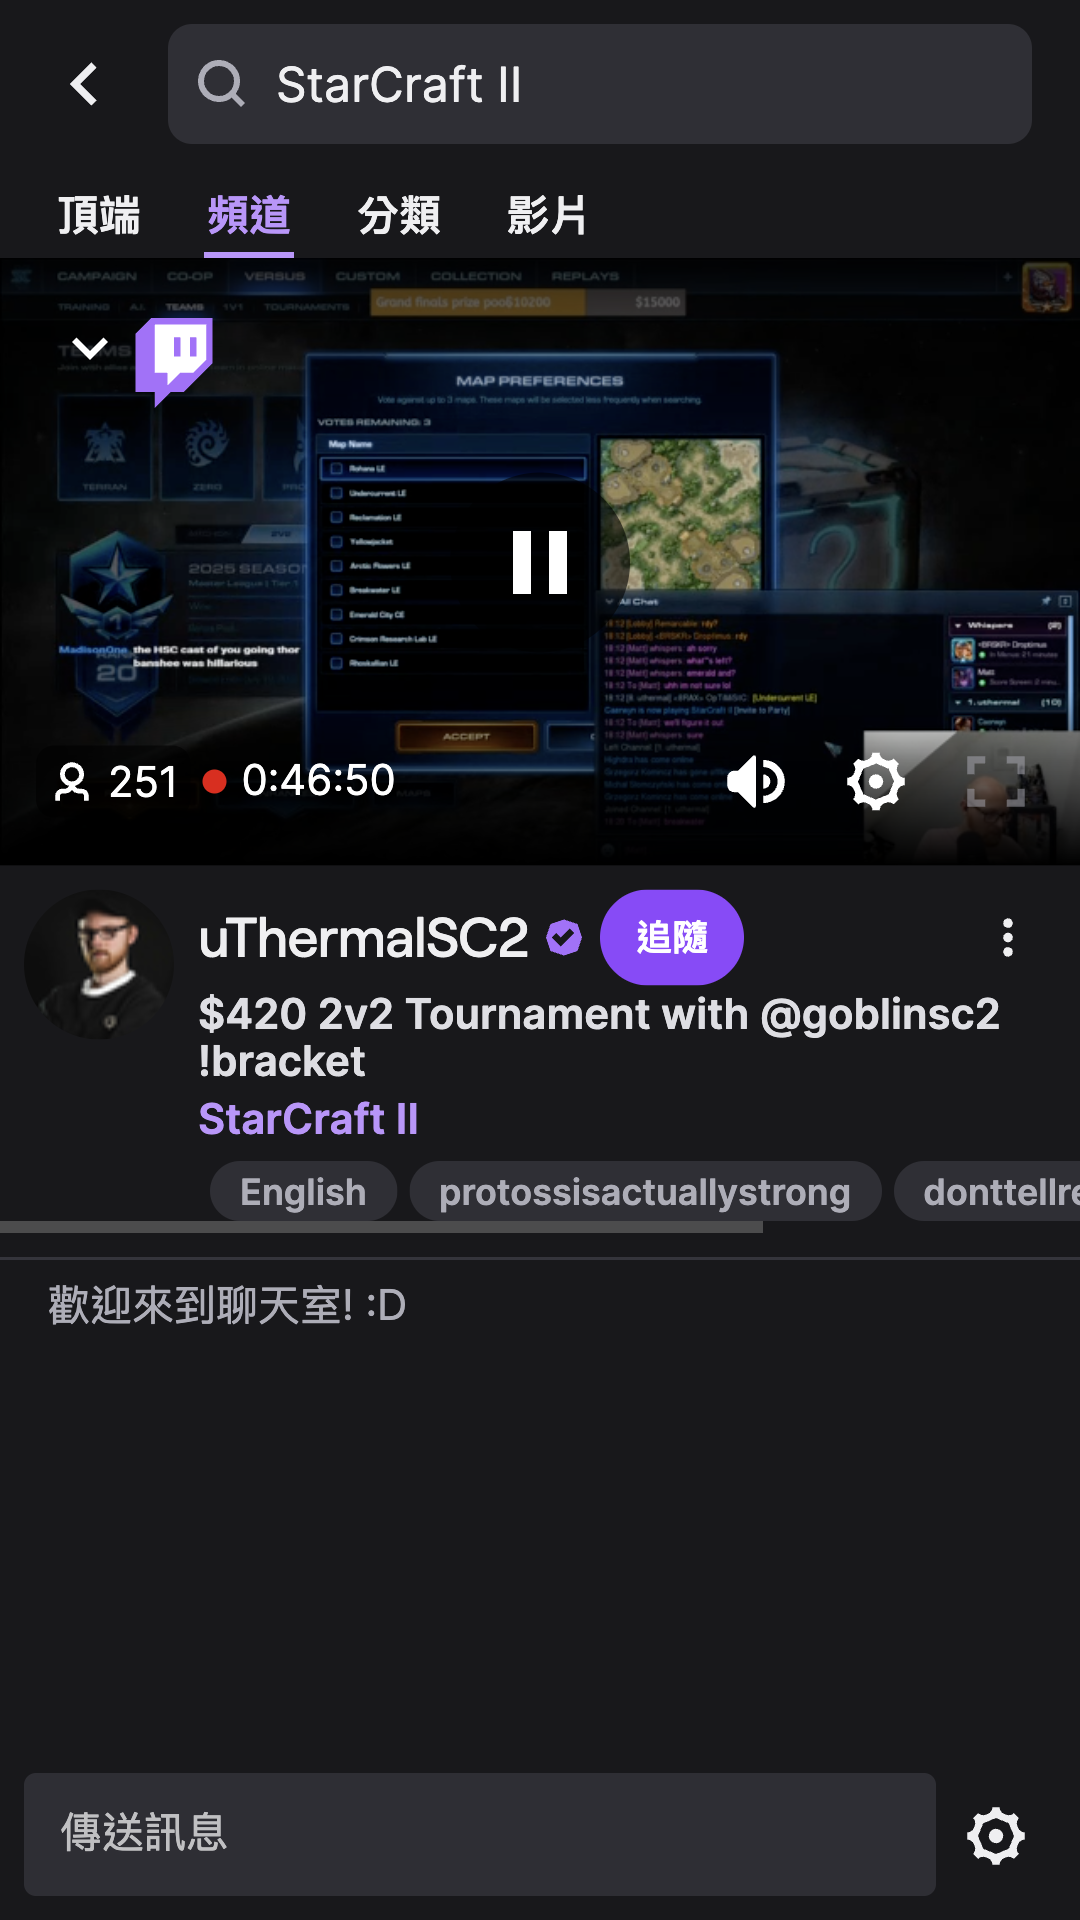
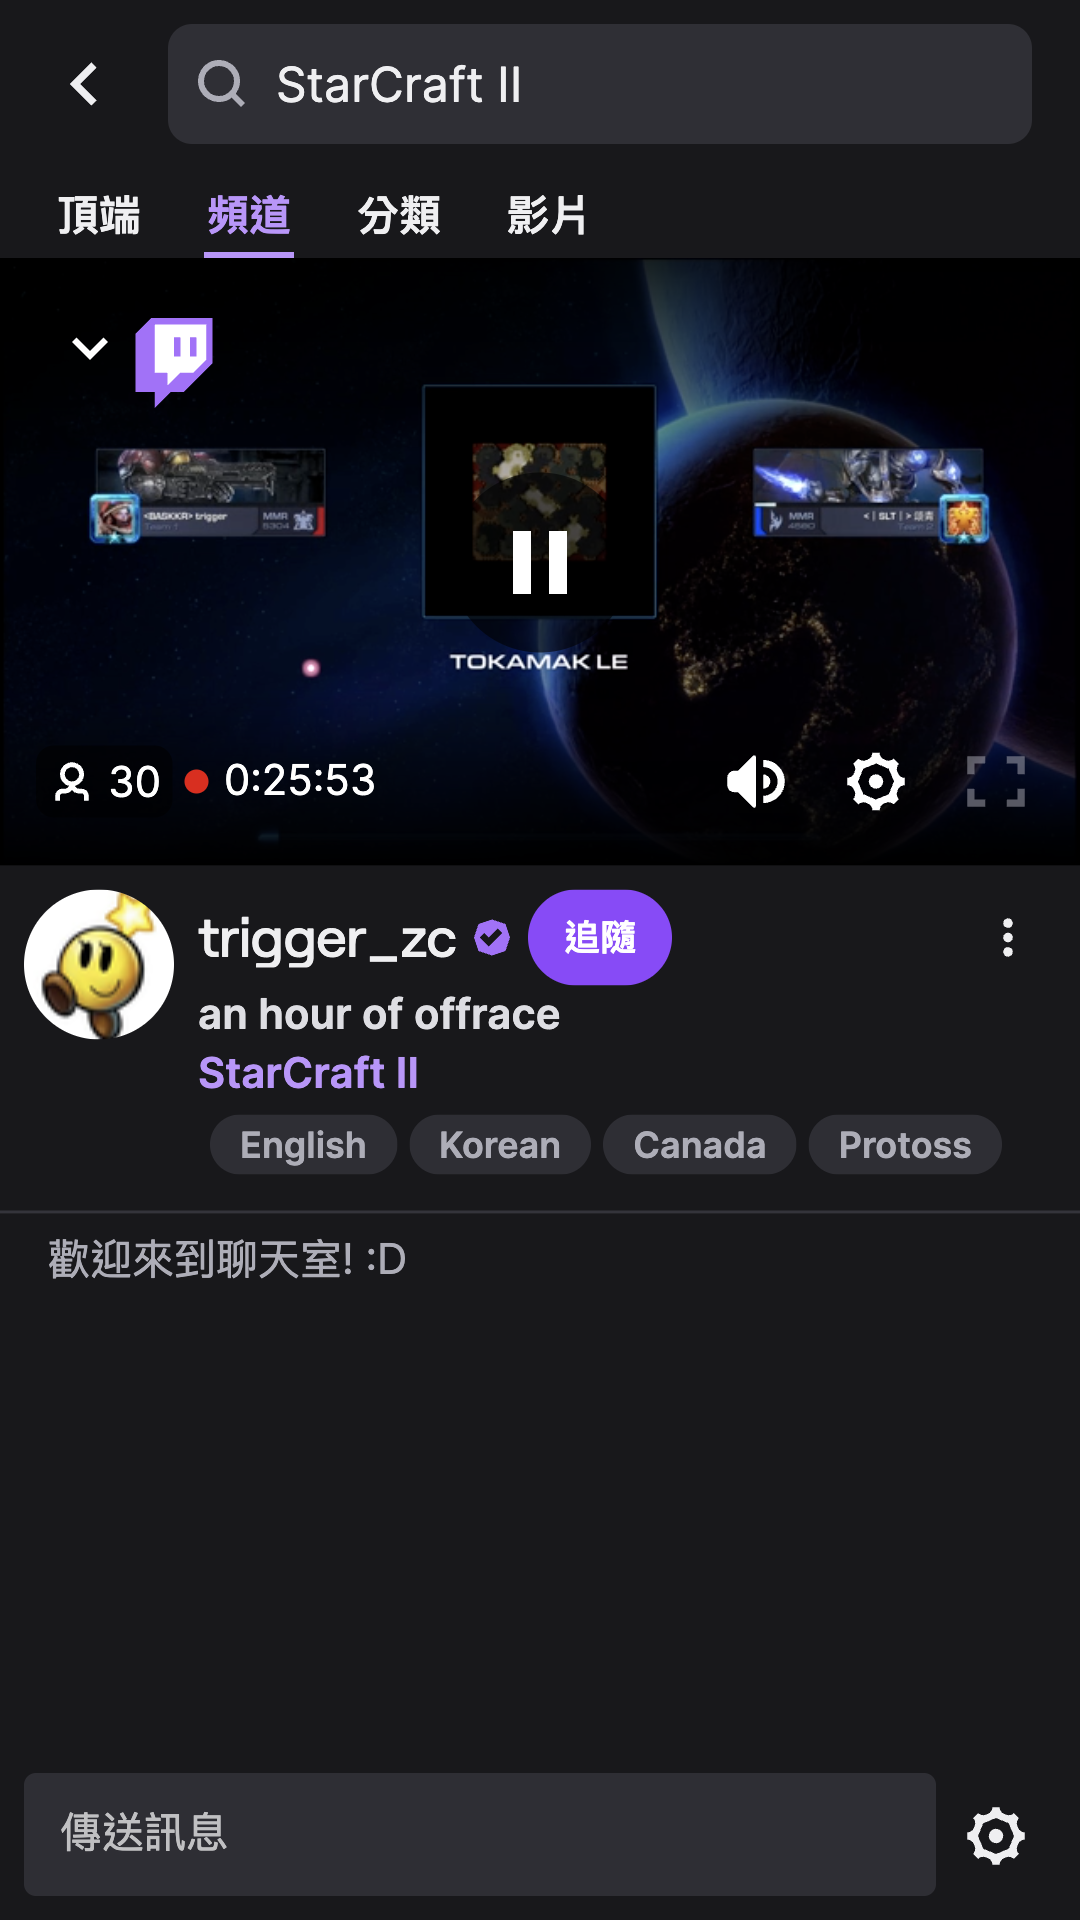
update new test video

diff --git a/tests/test_twitch_starcraft.py b/tests/test_twitch_starcraft.py
@@ -10,7 +10,6 @@ import utils.util as util
 config = util.load_config('config.yaml')
 TWITCH_URL = config['twitch']['url']
 SEARCH_TERM = config['twitch']['search_term']
-SCREENSHOT_DIR = config['twitch']['screenshot_dir']
 SCREENSHOT_FILENAME = config['twitch']['screenshot_filename']
 
 def test_twitch_stream_screenshot(driver):
@@ -34,5 +33,4 @@ def test_twitch_stream_screenshot(driver):
     except TimeoutException:
         pytest.fail("Streamer page may not have fully loaded.")
 
-    screenshot_path = os.path.join(SCREENSHOT_DIR, SCREENSHOT_FILENAME)
-    utils.save_screenshot(screenshot_path)
+    utils.save_screenshot(SCREENSHOT_FILENAME)

diff --git a/utils/util.py b/utils/util.py
@@ -35,9 +35,10 @@ class Utils:
             logger.error(f"Unexpected error while navigating to {url}: {e}")
             raise
 
-    def save_screenshot(self, screenshot_path):
+    def save_screenshot(self, screenshot_name):
         try:
-            os.makedirs(os.path.dirname(screenshot_path), exist_ok=True)
+            base_dir = os.path.dirname(os.path.abspath(__file__))
+            screenshot_path = os.path.join(base_dir, '..', 'screenshots', f'{screenshot_name}')
             success = self.driver.save_screenshot(screenshot_path)
             if success:
                 logger.info(f"Screenshot saved to: {screenshot_path}")

diff --git a/locators/locators.py b/locators/locators.py
@@ -7,5 +7,5 @@ class TwitchLocators:
     SEARCH_RESULT = (By.XPATH, "//p[@title='StarCraft II']")
     CHANNEL_TAB = (By.XPATH, "//div[@class='ScTitle-sc-iekec1-3 gesXMd'][text()='頻道']")
     FIRST_SEARCH_RESULT_LINK = (By.XPATH, "(//a[@data-a-target='search-result-link'])[1]")
-    STREAMER_CARD = (By.XPATH, "(//div[@class='Layout-sc-1xcs6mc-0 doaFqY'])[3]")
+    STREAMER_CARD = (By.XPATH, "(//div[@class='Layout-sc-1xcs6mc-0 doaFqY'])[4]")
     VIDEO_PLAYER = (By.XPATH, "//div[@data-a-target='player-overlay-click-handler']")
